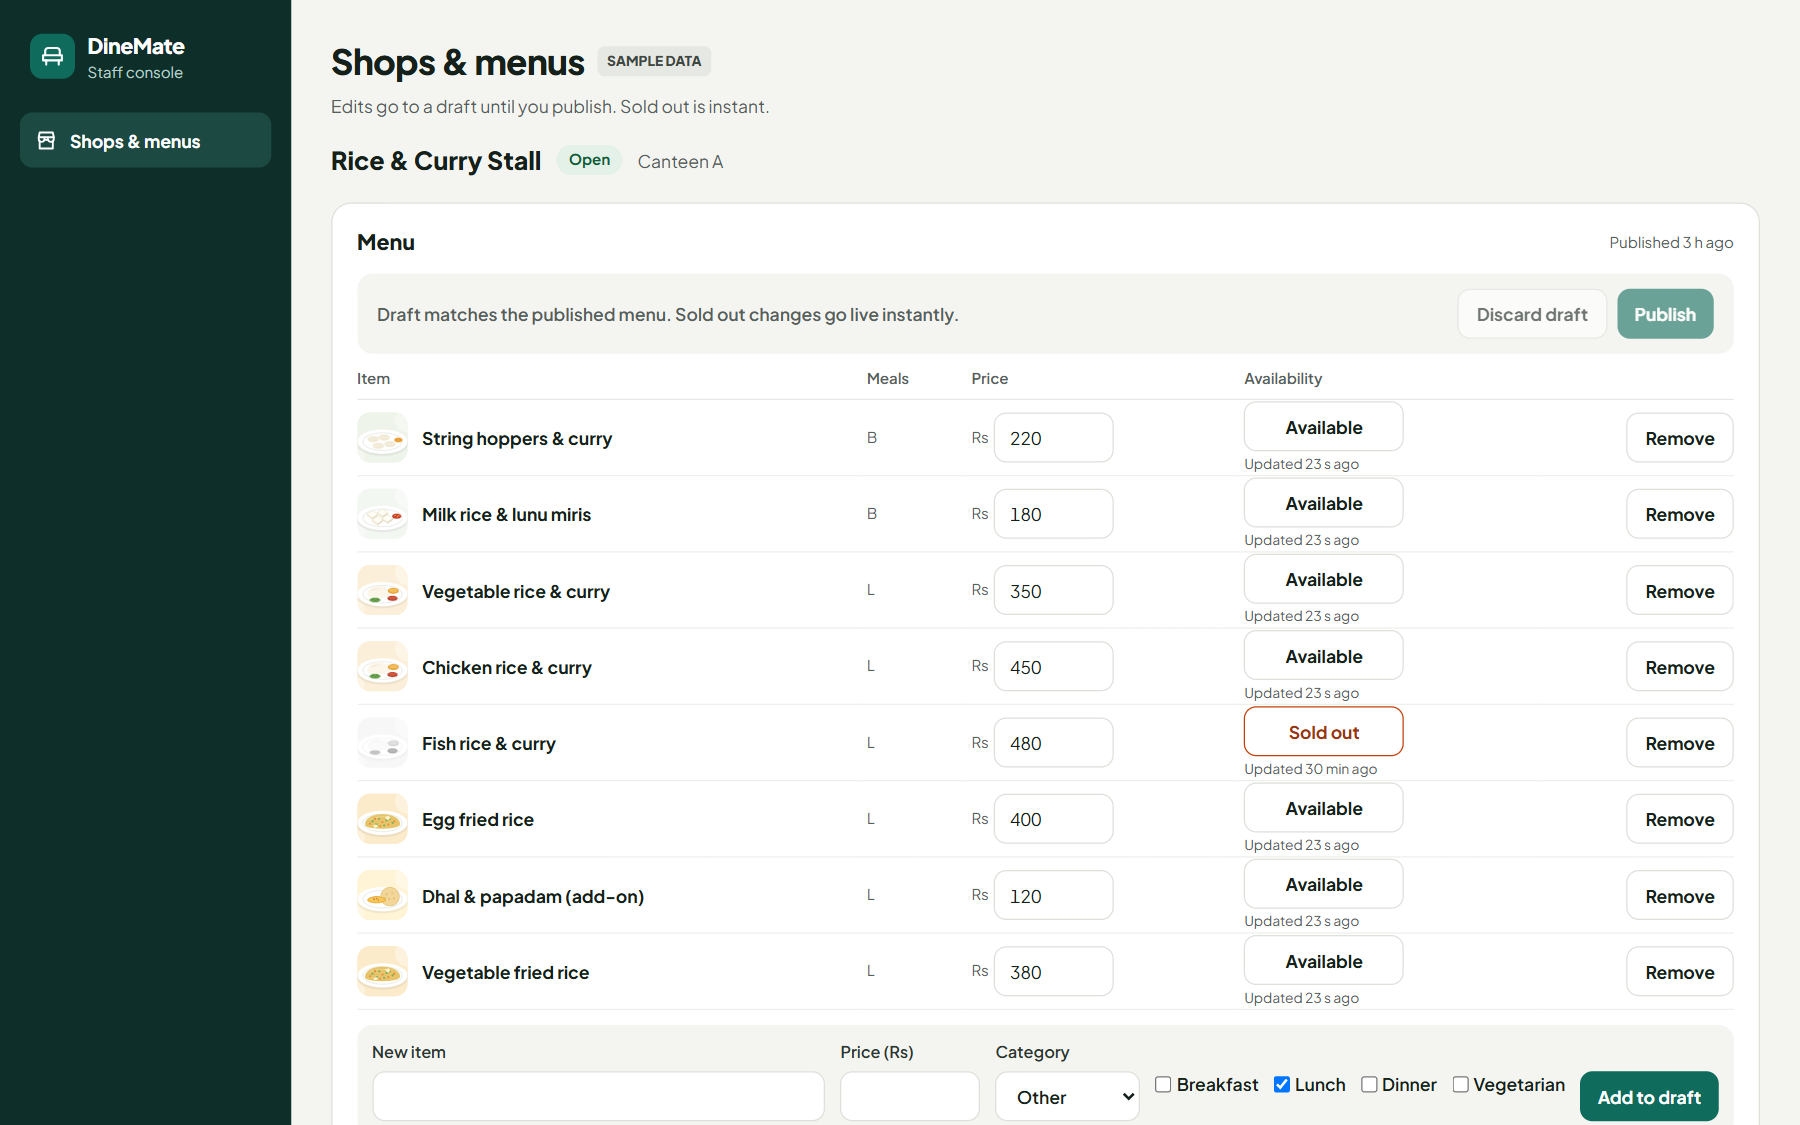
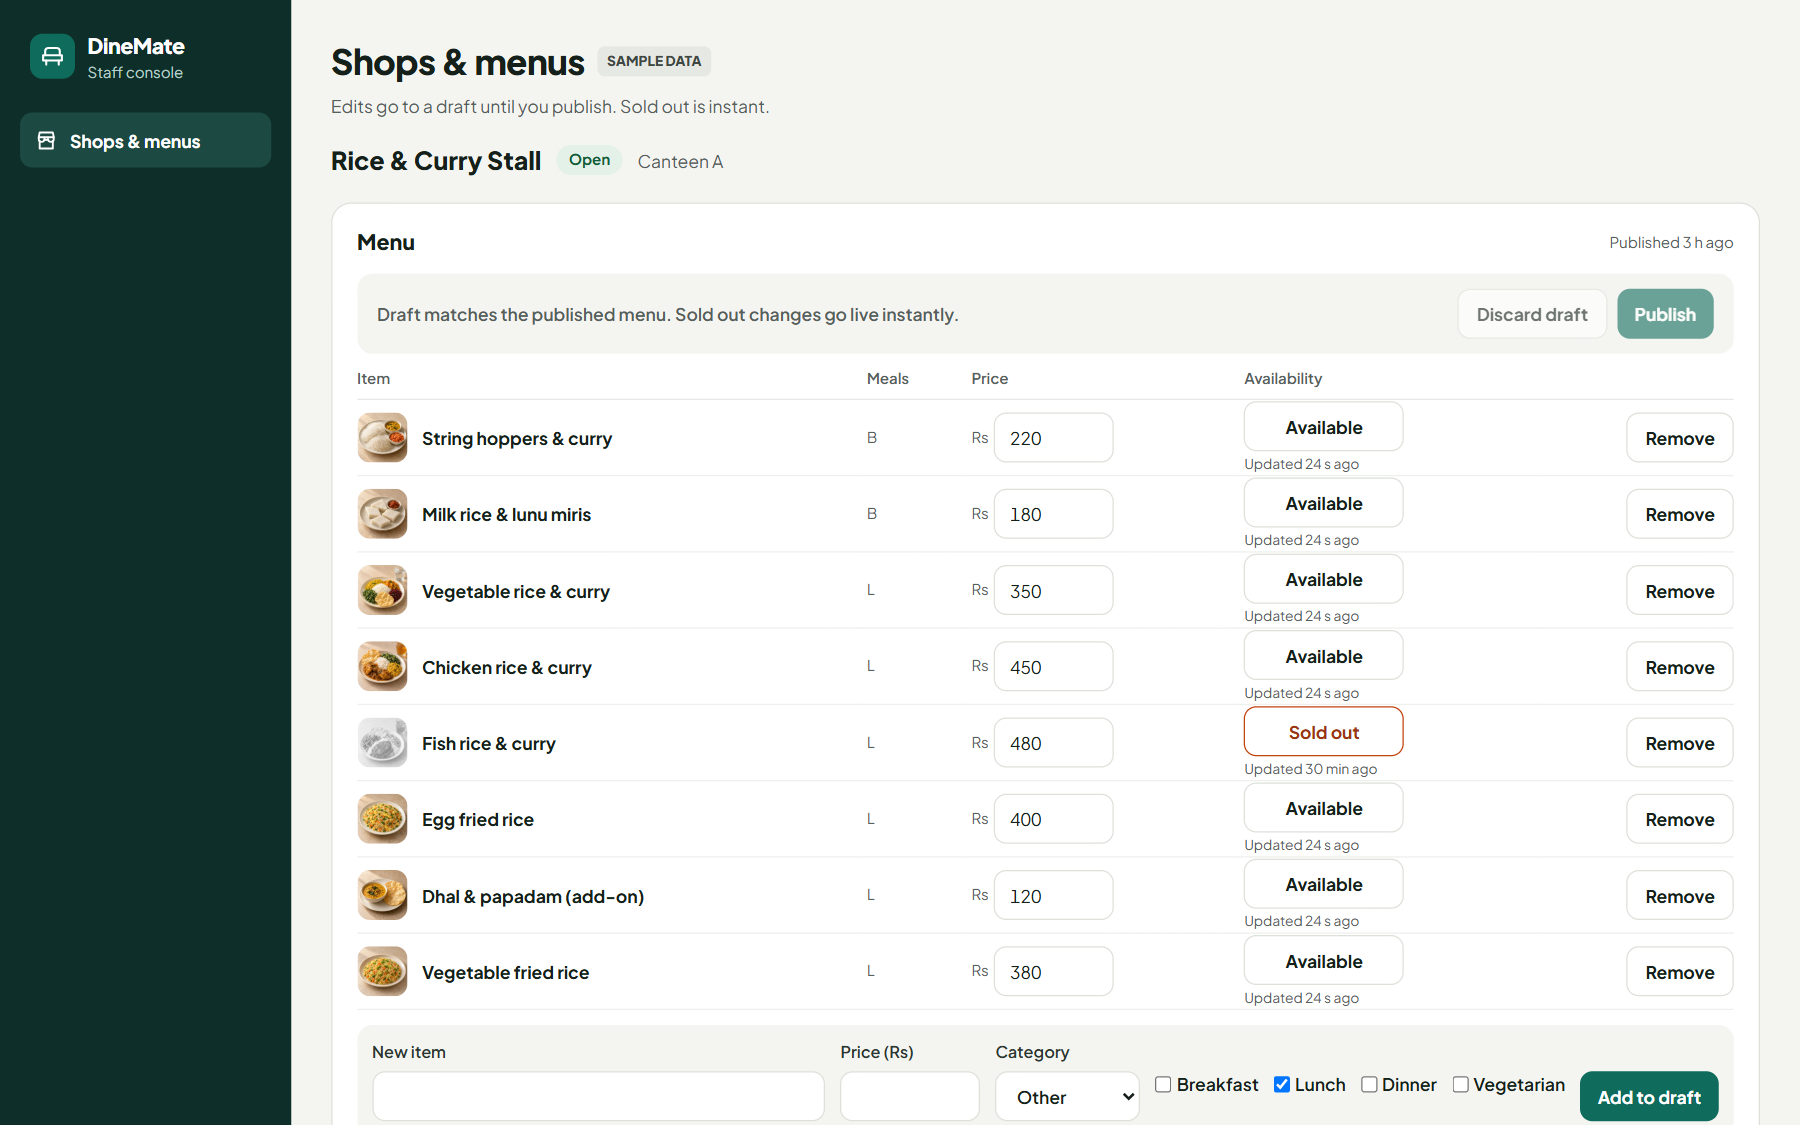
docs: README screenshots and wording for the new sample pictures

Changed region(s): [[0.1867, 0.3422, 0.2489, 0.6222], [0.1867, 0.6533, 0.2489, 0.9022]]

diff --git a/README.md b/README.md
@@ -9,7 +9,7 @@
   &nbsp;
   <img src="docs/screenshots/student-canteen-phone.png" width="230" alt="Canteen page for a crowded canteen with a Less crowded nearby suggestion" />
   &nbsp;
-  <img src="docs/screenshots/student-food-phone.png" width="230" alt="Food tab with illustrated menu items, prices and sold-out state" />
+  <img src="docs/screenshots/student-food-phone.png" width="230" alt="Food tab with sample menu pictures, prices and sold-out state" />
 </p>
 
 ## What it does
@@ -30,11 +30,11 @@ Seats are counted by a small vision worker (YOLO11n + ByteTrack). It runs on a l
 <table>
   <tr>
     <td width="50%"><img src="docs/screenshots/student-home-laptop.png" alt="Student Home on a laptop" /></td>
-    <td width="50%"><img src="docs/screenshots/student-food-laptop.png" alt="Food and shops on a laptop with illustrated drinks" /></td>
+    <td width="50%"><img src="docs/screenshots/student-food-laptop.png" alt="Food and shops on a laptop with sample menu pictures" /></td>
   </tr>
   <tr>
     <td align="center">Student Home: best spot, canteens, busy times</td>
-    <td align="center">Food & shops: menus with sample illustrations</td>
+    <td align="center">Food & shops: menus with sample pictures</td>
   </tr>
   <tr>
     <td><img src="docs/screenshots/console-overview.png" alt="Staff console overview" /></td>
@@ -78,7 +78,7 @@ More: [canteen page with the forecast](docs/screenshots/student-canteen-laptop.p
 | --------------------- | ------------------------------------------------------------------------------------------------------------------------------ |
 | `apps/student`        | React 18 + Vite + Tailwind v4 PWA for students                                                                                 |
 | `apps/console`        | Staff console (sign-in, roles, editing pages)                                                                                  |
-| `packages/ui`         | Shared tokens and components (status pill, canteen and food illustrations, icons)                                              |
+| `packages/ui`         | Shared tokens and components (status pill, sample canteen and food pictures, icons)                                            |
 | `packages/api-client` | Typed API client and TanStack Query hooks; types are checked against the OpenAPI spec                                          |
 | `services/api`        | FastAPI, SQLAlchemy 2, Alembic, PostgreSQL 16 (managed with uv, Python 3.12)                                                   |
 | `services/vision`     | Seat-counting worker and zone tools ([README](services/vision/README.md))                                                      |
@@ -136,7 +136,7 @@ CI runs everything except `pnpm screenshots` on every pull request.
 - **Estimates, not counts.** Every seat number has a range, goes grey after 2 minutes, and disappears after 10.
 - **Privacy first.** Counts only, frames never stored, no faces or identities.
 - **Safety stays separate.** Its own tables, router and permissions. Only signed messages from registered sources are accepted, and a simulator can never send a real alarm.
-- **Honest sample data.** Shop names, prices and pictures are placeholders until real shops supply them. The food pictures are original illustrations, not photos.
+- **Honest sample data.** Shop names, prices and pictures are placeholders until real shops supply them. The canteen, shop and food pictures are generated samples, not photos of real places or dishes.
 - **Server time.** Countdowns and freshness use the server clock (Asia/Colombo), never the phone's.
 
 ## Status

diff --git a/CLAUDE.md b/CLAUDE.md
@@ -7,7 +7,7 @@ Solo developer. Work one phase at a time from docs/ROADMAP.md and tick items off
 
 - apps/student — installable PWA for students. Keep it simple.
 - apps/console — staff console (admin, canteen manager, shop manager, safety officer).
-- packages/ui — shared tokens and components (StatusPill, Ring, CanteenArt, HazardFrame, icons).
+- packages/ui — shared tokens and components (StatusPill, Ring, CanteenArt, FoodArt, HazardFrame, icons). Sample pictures are WebP files in `src/art`, mapped in `src/photos.ts` (food by item name with a dish-category fallback, shops by ID then kind, canteens by ID). PNG masters are not committed.
 - packages/api-client — hand-written API types, TanStack Query hooks, and a client that calls the real API when `configureApi({ baseUrl })` is set, else a labelled sample "server". `src/contract.ts` makes typecheck fail if the types drift from the generated OpenAPI types in `src/generated/`.
 - services/api — FastAPI + PostgreSQL, managed with uv (Python 3.12). Layout: `app/models` (SQLAlchemy), `app/services` (pure rules: occupancy, shop_status, meal_status; `views.py` loads DB → schemas), `app/routers`, `app/schemas.py`, `app/seed.py`, `app/sim.py`. Alembic migrations in `alembic/versions`.
 - infra/docker-compose.yml — Postgres 16 + API (migrates and seeds an empty DB on start) + occupancy simulator. Copy infra/.env.example to infra/.env to override defaults.
